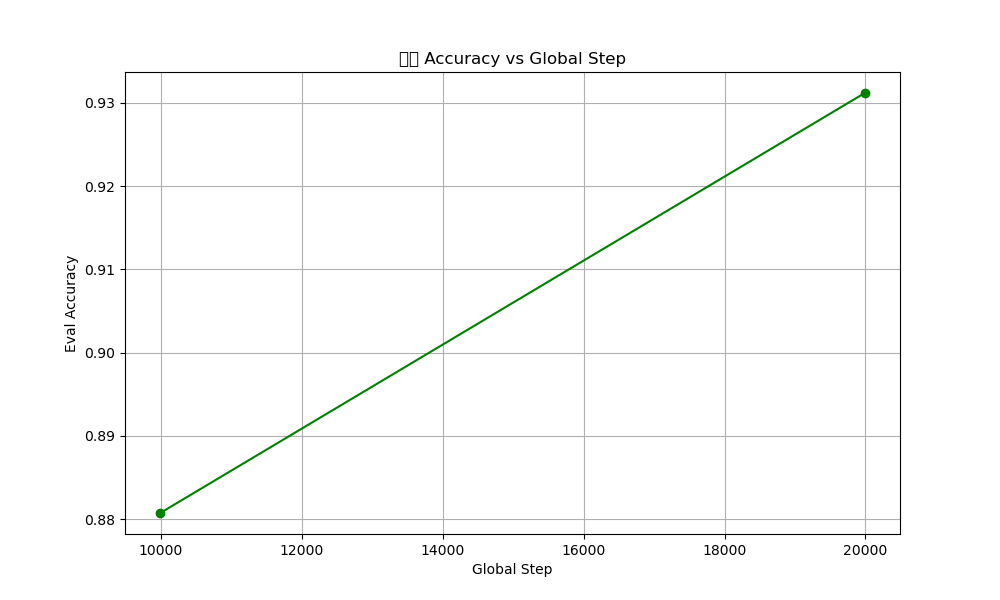
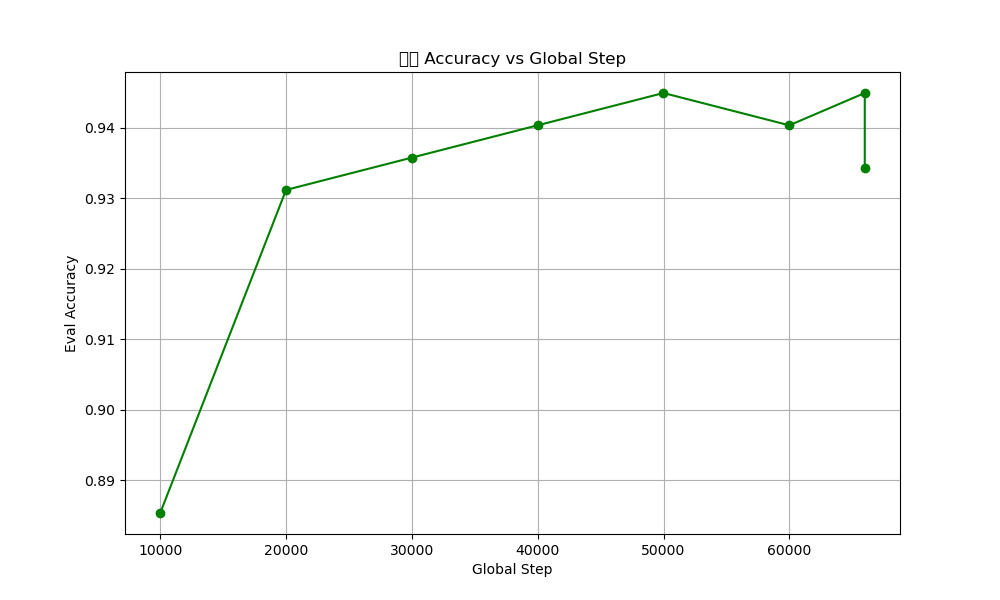
1

diff --git a/medium_models/src/trainer.py b/medium_models/src/trainer.py
@@ -160,36 +160,46 @@ class Trainer(LinearHeadTrainer):
 
     # === Begin Adaptive h (Berahas et al.) ===
     def estimate_nu3(self, model, loss_fn, inputs, h=1e-3):
+        # === Float64 precision for more stable epsilon_f / nu3 estimation ===
         v = torch.randn_like(model.base_model.embeddings.word_embeddings.weight)
         v = v / torch.norm(v)
         original = model.base_model.embeddings.word_embeddings.weight.data.clone()
+        # Cast to float64 for estimation
+        original64 = original.to(dtype=torch.float64)
+        v64 = v.to(dtype=torch.float64)
         try:
             with torch.no_grad():
-                model.base_model.embeddings.word_embeddings.weight.data.copy_(original + 2 * h * v)
+                model.base_model.embeddings.word_embeddings.weight.data.copy_((original64 + 2 * h * v64).to(dtype=original.dtype))
                 f2 = self.zo_forward(model, inputs)
-                model.base_model.embeddings.word_embeddings.weight.data.copy_(original + h * v)
+                model.base_model.embeddings.word_embeddings.weight.data.copy_((original64 + h * v64).to(dtype=original.dtype))
                 f1 = self.zo_forward(model, inputs)
-                model.base_model.embeddings.word_embeddings.weight.data.copy_(original - h * v)
+                model.base_model.embeddings.word_embeddings.weight.data.copy_((original64 - h * v64).to(dtype=original.dtype))
                 f_1 = self.zo_forward(model, inputs)
-                model.base_model.embeddings.word_embeddings.weight.data.copy_(original - 2 * h * v)
+                model.base_model.embeddings.word_embeddings.weight.data.copy_((original64 - 2 * h * v64).to(dtype=original.dtype))
                 f_2 = self.zo_forward(model, inputs)
         finally:
+            # === Revert back to float32 after estimation ===
             model.base_model.embeddings.word_embeddings.weight.data.copy_(original)
         nu3 = abs((-f2 + 2*f1 - 2*f_1 + f_2) / (2 * h ** 3))
         logger.info(f"Estimated nu3: {nu3}")
-        return nu3
+        # Return as float64 Python float for precision
+        return float(nu3)
 
     def estimate_noise(self, model, loss_fn, inputs, q=6, delta=1e-4):
+        # === Float64 precision for more stable epsilon_f / nu3 estimation ===
         v = torch.randn_like(model.base_model.embeddings.word_embeddings.weight)
         v = v / torch.norm(v)
         original = model.base_model.embeddings.word_embeddings.weight.data.clone()
+        original64 = original.to(dtype=torch.float64)
+        v64 = v.to(dtype=torch.float64)
         f_vals = []
         try:
             for i in range(q + 1):
-                model.base_model.embeddings.word_embeddings.weight.data.copy_(original + i * delta * v)
+                model.base_model.embeddings.word_embeddings.weight.data.copy_((original64 + i * delta * v64).to(dtype=original.dtype))
                 with torch.no_grad():
                     f_vals.append(self.zo_forward(model, inputs).item())
         finally:
+            # === Revert back to float32 after estimation ===
             model.base_model.embeddings.word_embeddings.weight.data.copy_(original)
         T = [[0] * (q + 1) for _ in range(q + 1)]
         for i in range(q + 1):
@@ -202,7 +212,8 @@ class Trainer(LinearHeadTrainer):
         s_j_sq = gamma / (q + 1 - j) * sum(T[i][j]**2 for i in range(q + 1 - j))
         epsilon_f = math.sqrt(s_j_sq)
         logger.info(f"Estimated epsilon_f: {epsilon_f}")
-        return epsilon_f
+        # Return as float64 Python float for precision
+        return float(epsilon_f)
     # === End Adaptive h ===
 
     def create_optimizer_and_scheduler(self, num_training_steps: int):
@@ -554,10 +565,18 @@ class Trainer(LinearHeadTrainer):
             self.epsilon_f = self.estimate_noise(model, self.compute_loss, example_inputs)
             self.nu3 = self.estimate_nu3(model, self.compute_loss, example_inputs)
             self.adaptive_h = (self.epsilon_f / self.nu3) ** (1/3) * (3 ** (1/3))
+            # Ensure adaptive h returns to float32 after high-precision estimation
+            self.adaptive_h = float(self.adaptive_h)
+            self.adaptive_h = torch.tensor(self.adaptive_h, dtype=torch.float32)
             logger.info(f"Using adaptive h = {self.adaptive_h:.6e}")
+            previous_adaptive_h = self.adaptive_h
             if torch.isnan(torch.tensor(self.adaptive_h)).item() or self.adaptive_h < 1e-8:
-                logger.warning(f"Adaptive h is NaN or too small: {self.adaptive_h}, setting to minimum threshold 1e-4")
-                self.adaptive_h = 1e-4
+                logger.warning(f"Adaptive h estimation invalid (value: {self.adaptive_h}), keeping previous adaptive h value.")
+                self.adaptive_h = previous_adaptive_h
+            else:
+                previous_adaptive_h = self.adaptive_h
+        else:
+            previous_adaptive_h = getattr(self, "adaptive_h", 1e-4)
         # === End Adaptive h ===
         self.epoch = 0
         epochs_trained = 0
@@ -901,10 +920,15 @@ class Trainer(LinearHeadTrainer):
                     self.epsilon_f = self.estimate_noise(model, self.compute_loss, inputs)
                     self.nu3 = self.estimate_nu3(model, self.compute_loss, inputs)
                     self.adaptive_h = (self.epsilon_f / self.nu3) ** (1 / 3) * (3 ** (1 / 3))
+                    # Ensure adaptive h returns to float32 after high-precision estimation
+                    self.adaptive_h = float(self.adaptive_h)
+                    self.adaptive_h = torch.tensor(self.adaptive_h, dtype=torch.float32)
                     logger.info(f"Updated adaptive h = {self.adaptive_h:.6e}")
                     if torch.isnan(torch.tensor(self.adaptive_h)).item() or self.adaptive_h < 1e-8:
-                        logger.warning(f"Adaptive h is NaN or too small: {self.adaptive_h}, setting to minimum threshold 1e-4")
-                        self.adaptive_h = 1e-4
+                        logger.warning(f"Adaptive h estimation invalid (value: {self.adaptive_h}), keeping previous adaptive h value.")
+                        self.adaptive_h = previous_adaptive_h
+                    else:
+                        previous_adaptive_h = self.adaptive_h
                 # === End Adaptive h update ===
 
                 if self.args.max_steps > 0 and self.state.global_step > self.args.max_steps or (self.args.max_zo_forward_steps > 0 and self.state.zo_forward_step > self.args.max_zo_forward_steps):

diff --git a/medium_models/jobs/res.py b/medium_models/jobs/res.py
@@ -53,7 +53,7 @@ def create_dataframes(training_records, eval_records):
     return df_train, df_eval
 
 
-def plot_results(df_train, df_eval, window_size=100, alpha=0.01):
+def plot_results(df_train, df_eval, window_size=10, alpha=0.01, compare_plot=False, compare_filepath=None):
     """
     绘制三个图：
     1. 训练 loss（包含原始数据、移动平均和 EMA 平滑后数据）随 global_step 的变化
@@ -69,6 +69,11 @@ def plot_results(df_train, df_eval, window_size=100, alpha=0.01):
     plt.plot(df_train['global_step'], df_train['loss'], label='original Loss', alpha=0.3)
     plt.plot(df_train['global_step'], df_train['loss_rolling'], label=f'shift_avg (window={window_size})', linewidth=2)
     # plt.plot(df_train['global_step'], df_train['loss_ema'], label=f'EMA (alpha={alpha})', linewidth=2)
+    if compare_plot and compare_filepath is not None:
+        training_records_cmp, _ = parse_log_file(compare_filepath)
+        df_train_cmp, _ = create_dataframes(training_records_cmp, [])
+        df_train_cmp['loss_rolling'] = df_train_cmp['loss'].rolling(window=window_size).mean()
+        plt.plot(df_train_cmp['global_step'], df_train_cmp['loss_rolling'], label=f'Comparison Loss (window={window_size})', linewidth=2, linestyle='--')
     plt.xlabel('Global Step')
     plt.ylabel('Loss')
     plt.title('train Loss vs Global Step (平滑处理)')
@@ -77,32 +82,33 @@ def plot_results(df_train, df_eval, window_size=100, alpha=0.01):
     plt.savefig("loss_vs_global_step_smoothed.png")
 
     # 图2：评估 accuracy 随 global_step 的变化
-    if not df_eval.empty:
-        plt.figure(figsize=(10, 6))
-        plt.plot(df_eval['global_step'], df_eval['eval_acc'], marker='o', color='green')
-        plt.xlabel('Global Step')
-        plt.ylabel('Eval Accuracy')
-        plt.title('评估 Accuracy vs Global Step')
-        plt.grid(True)
-        plt.savefig("eval_acc_vs_global_step.png")
-
-        # 图3：评估 loss 随 global_step 的变化
-        plt.figure(figsize=(10, 6))
-        plt.plot(df_eval['global_step'], df_eval['eval_loss'], marker='o', color='red')
-        plt.xlabel('Global Step')
-        plt.ylabel('Eval Loss')
-        plt.title('评估 Loss vs Global Step')
-        plt.grid(True)
-        plt.savefig("eval_loss_vs_global_step.png")
-    else:
-        print("评估数据为空，跳过评估图表绘制。")
+    # if not df_eval.empty:
+        # plt.figure(figsize=(10, 6))
+        # plt.plot(df_eval['global_step'], df_eval['eval_acc'], marker='o', color='green')
+        # plt.xlabel('Global Step')
+        # plt.ylabel('Eval Accuracy')
+        # plt.title('评估 Accuracy vs Global Step')
+        # plt.grid(True)
+        # plt.savefig("eval_acc_vs_global_step.png")
+        #
+        # # 图3：评估 loss 随 global_step 的变化
+        # plt.figure(figsize=(10, 6))
+        # plt.plot(df_eval['global_step'], df_eval['eval_loss'], marker='o', color='red')
+        # plt.xlabel('Global Step')
+        # plt.ylabel('Eval Loss')
+        # plt.title('评估 Loss vs Global Step')
+        # plt.grid(True)
+        # plt.savefig("eval_loss_vs_global_step.png")
+    # else:
+    #     print("评估数据为空，跳过评估图表绘制。")
 
     plt.show()
 
 
 if __name__ == "__main__":
     # 请确保文件路径正确
-    filepath = "ModifiedH-sst-2full_36712920_1.out"
+    filepath = "Modified_stepH-sst-2full_36766105_1.out"
+    filepath2 = "sst-2full_test.out"
     training_records, eval_records = parse_log_file(filepath)
     df_train, df_eval = create_dataframes(training_records, eval_records)
 
@@ -112,4 +118,4 @@ if __name__ == "__main__":
     print(df_eval.head())
 
     # window_size 和 alpha 参数可根据需要调整
-    plot_results(df_train, df_eval, window_size=100, alpha=0.01)
+    plot_results(df_train, df_eval, window_size=50, alpha=0.01, compare_plot=1, compare_filepath=filepath2)
